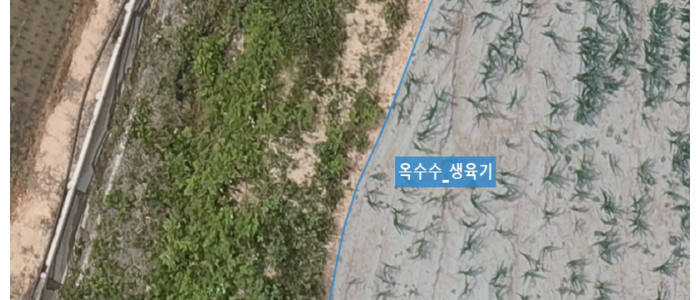
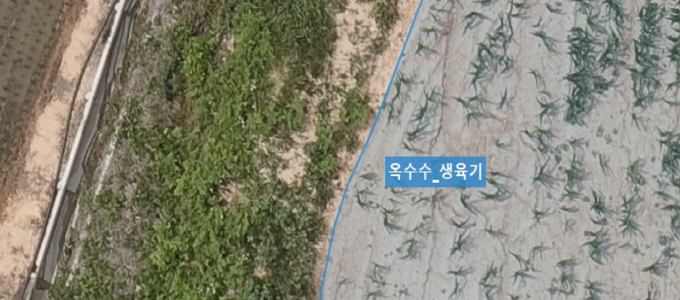
분석 과제 카드 썸네일 — 흰 여백 트림 + 컨테이너 비율 7:3
- model_1~6.png 이미지의 좌우 흰 padding 자동 트림 (700→680/642×300)
- .ai-opt-thumb aspect-ratio 3:1 → 7:3 으로 원본 비율과 일치 (잘림 없이 풀로 표시)

diff --git a/assets/css/page-analysis-ai.css b/assets/css/page-analysis-ai.css
@@ -298,7 +298,7 @@
 
 .ai-opt-thumb {
   width: 100%;
-  aspect-ratio: 3 / 1;
+  aspect-ratio: 7 / 3;
   background-color: #E9ECEF;
   background-position: center;
   background-size: cover;
